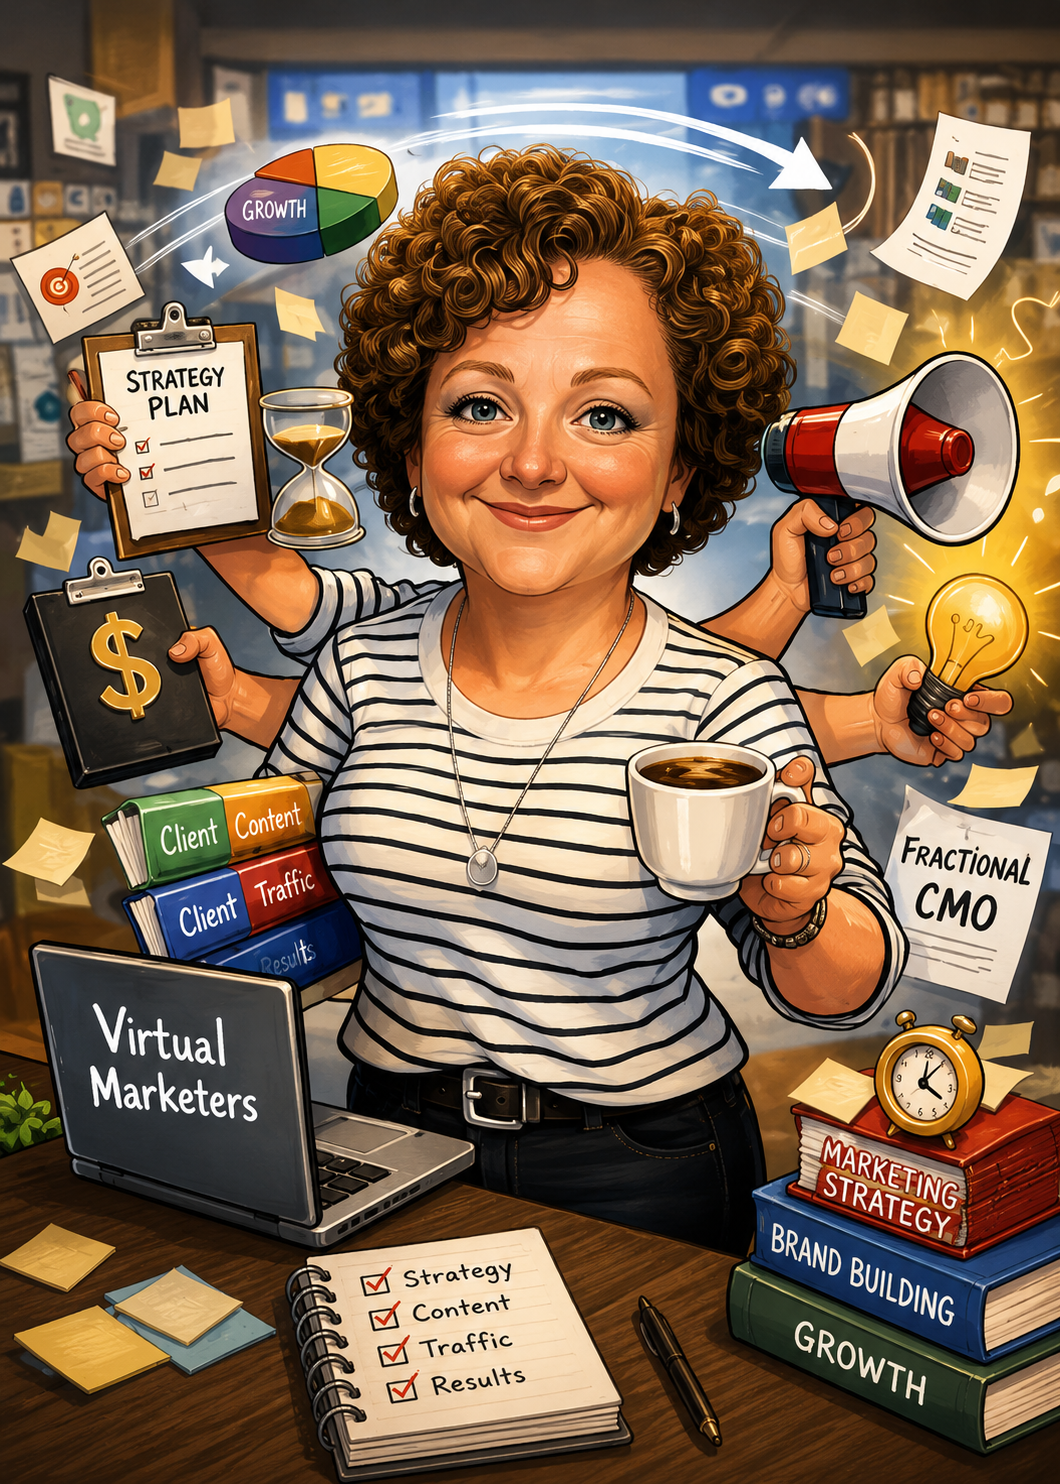
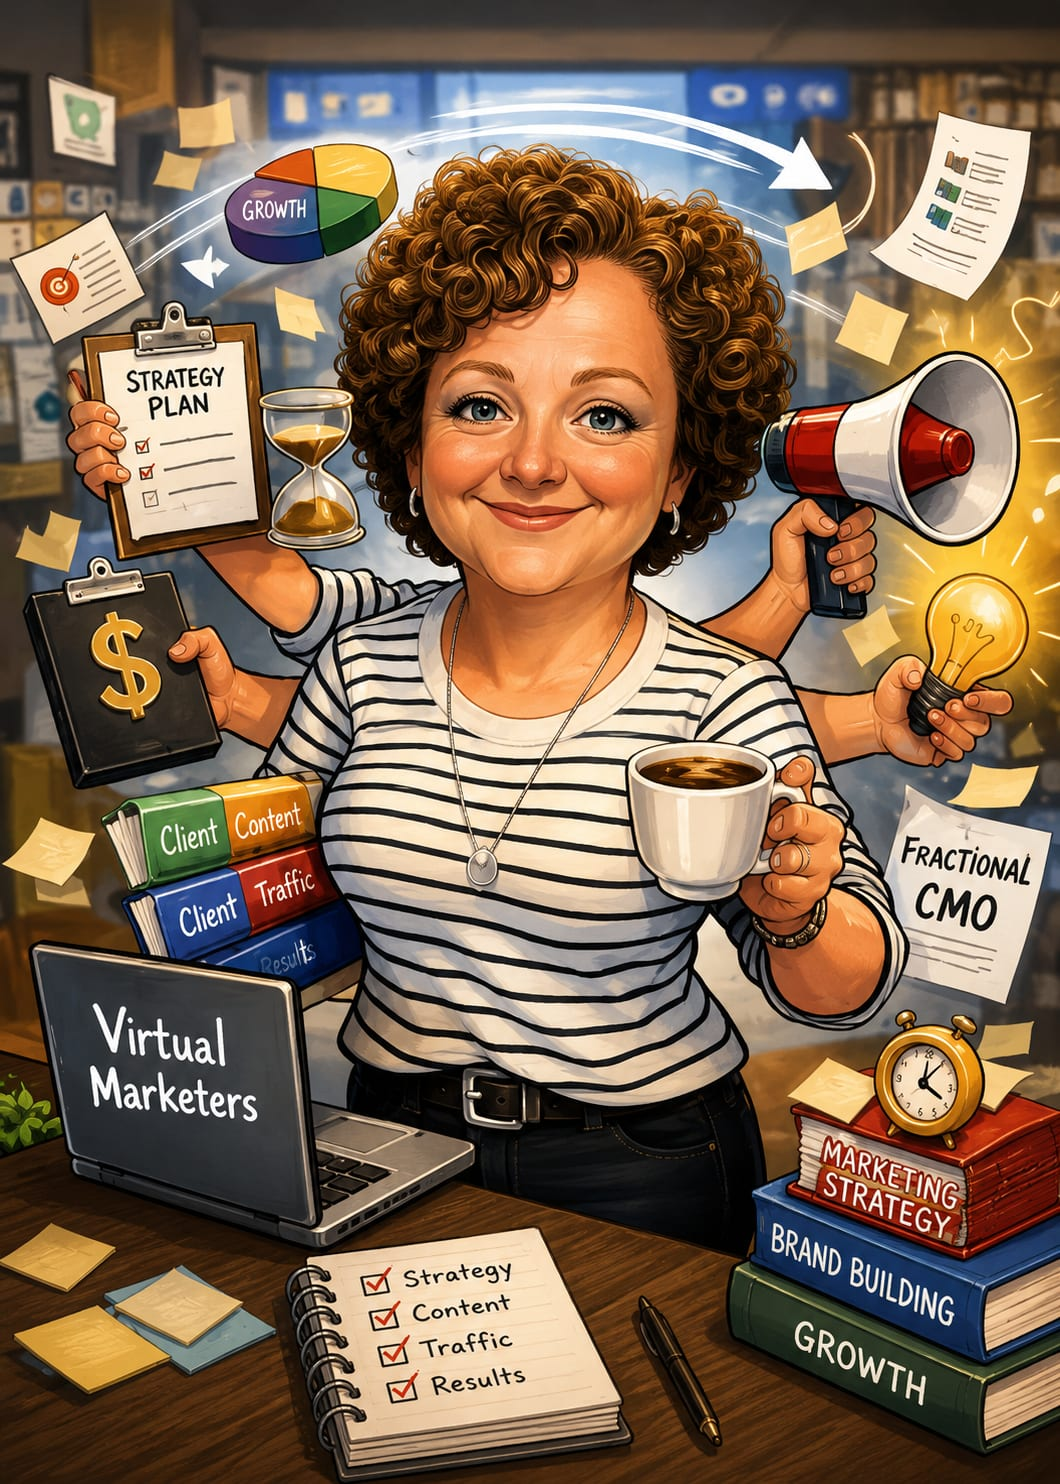
update profile images and compress files

diff --git a/src/sections/Work.tsx b/src/sections/Work.tsx
@@ -1,4 +1,4 @@
-import imgTwentyEight from "../assets/TwentyEight_imageV2.png";
+import imgTwentyEight from "../assets/TwentyEight_imageV2.jpg";
 import imgRealTalk from "../assets/RealTalk.png";
 import imgAlex from "../assets/Alex_Image.jpg";
 import imgAdeline from "../assets/Adeline_FrenchTech_Final.jpeg";
